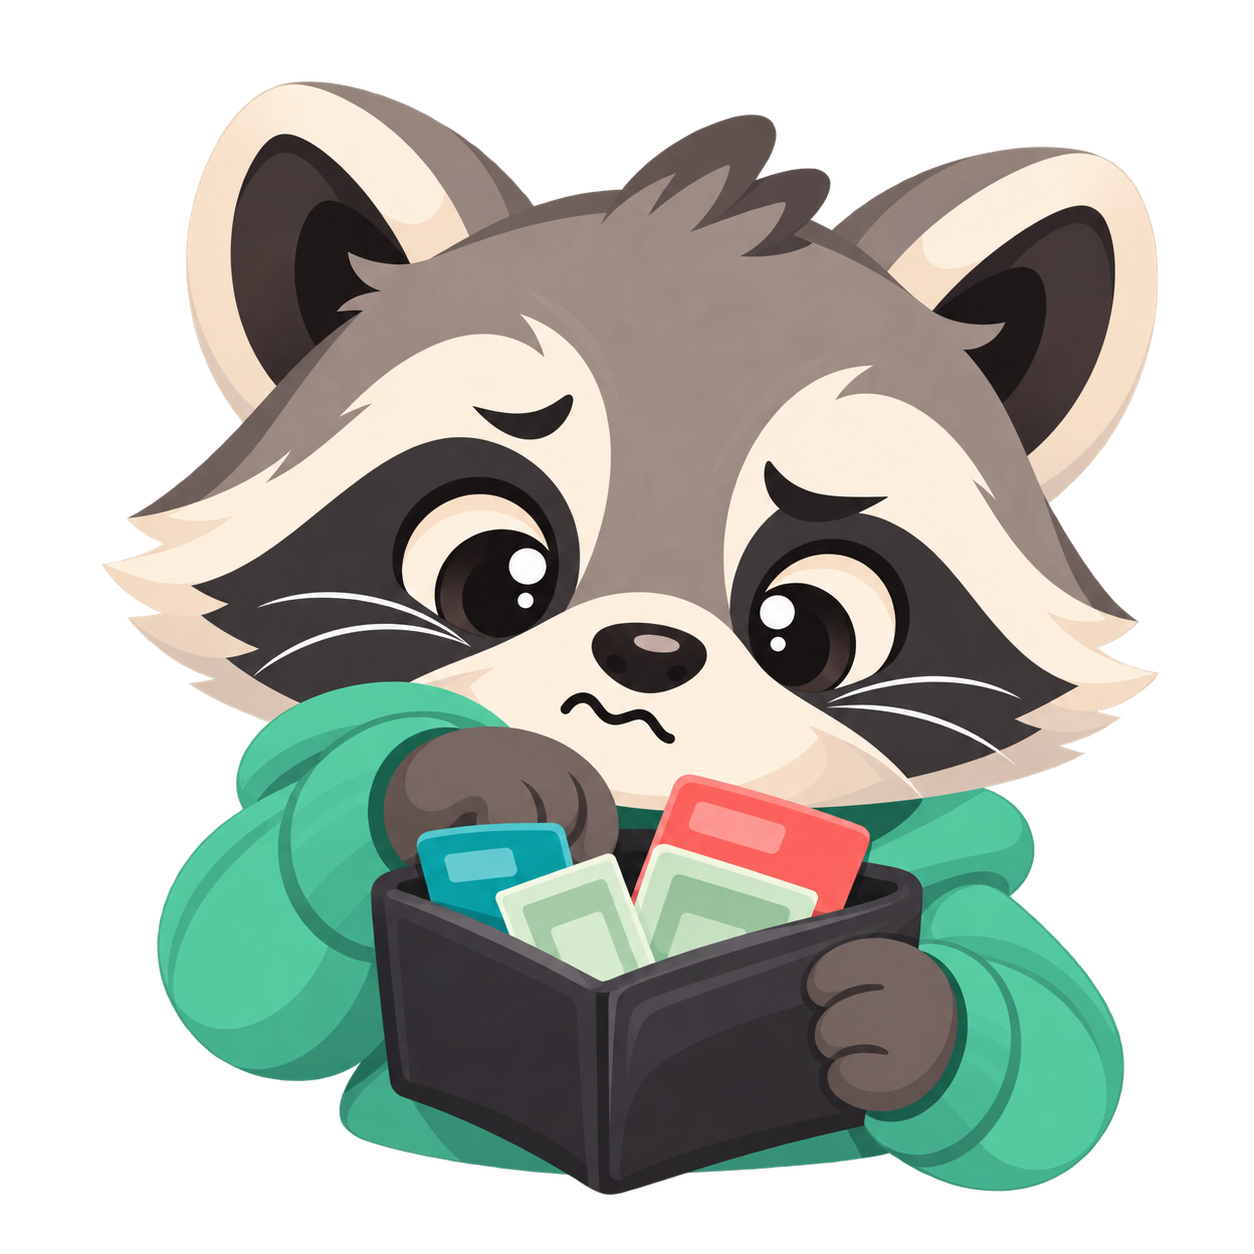
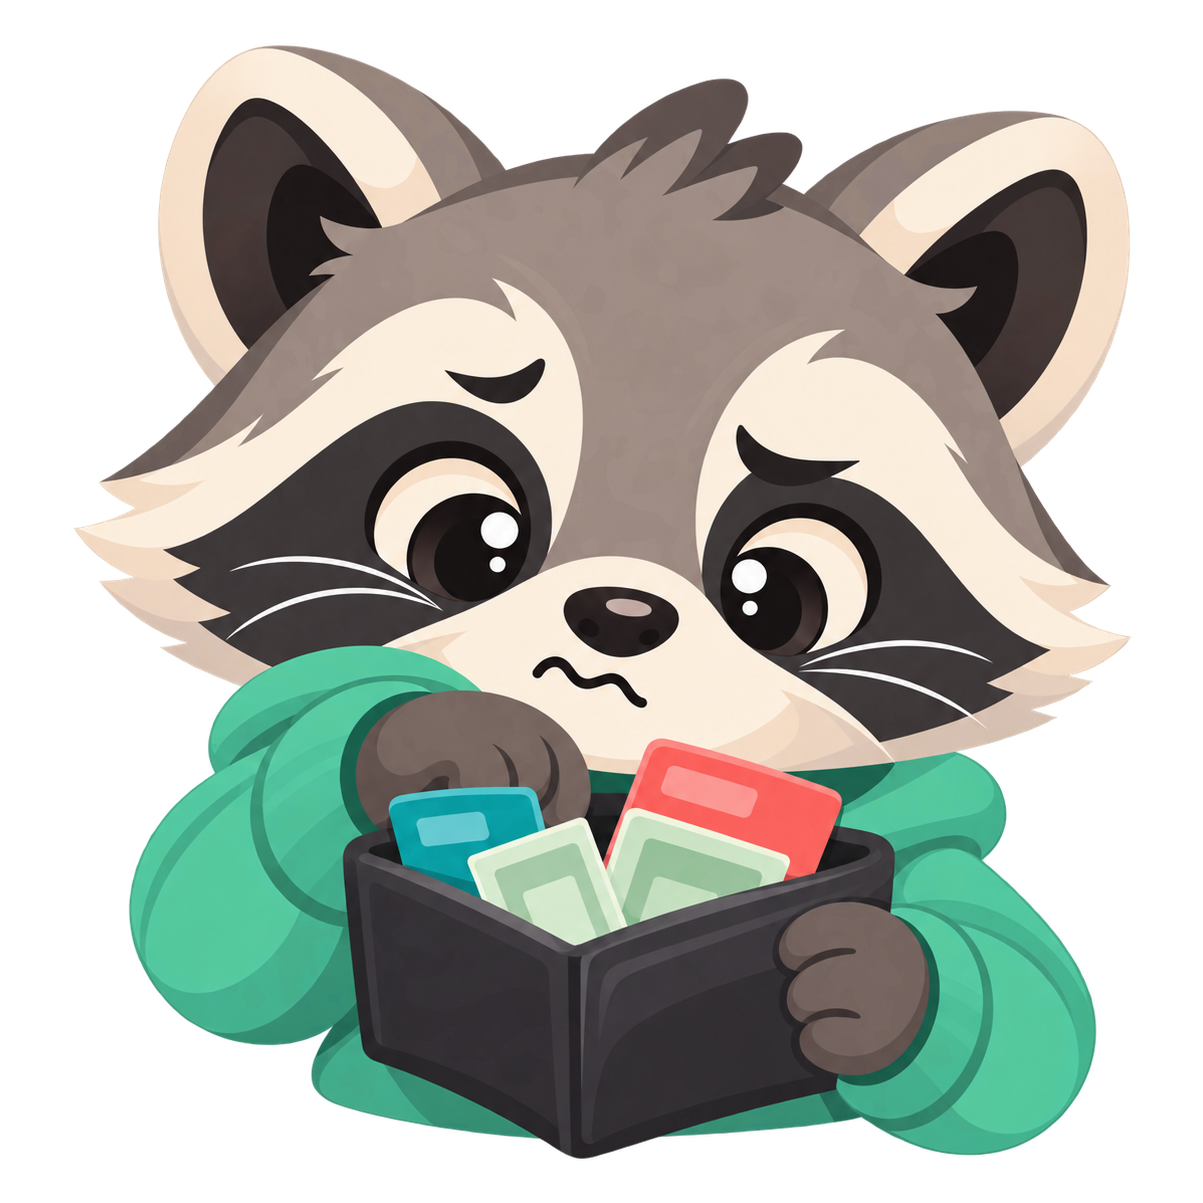
Bigger sidebar badge with a frame instead of a fill, more dashboard room
- Sidebar badge 48x48 -> 64x64, and swapped the solid accent-green
  background for a transparent background + thin green frame (Stroke),
  since the solid fill was blending into the raccoon's own green
  hoodie in the artwork.
- Dashboard's outer padding 32 -> 40 - it was feeling cramped.
- Cropped the app icon source PNG tighter around the character
  (was using only ~84-89% of the canvas) so it reads a bit larger at
  small taskbar sizes. Detail loss at 16-32px is partly inherent to a
  richly-illustrated character and isn't fully fixable by cropping
  alone - flagged to the user as a possible next step (a tighter,
  face-focused crop) if this isn't enough.

Parked: the Microsoft.NET.Sdk.Maui switch (for future iOS support) -
the workload manifest and SDK pack files are genuinely present and
correctly version-matched, but Microsoft.DotNet.MSBuildWorkloadSdkResolver
still won't resolve the SDK. Reverted to the working plain-Sdk setup
so it doesn't block other work; `dotnet workload repair` is the next
thing to try.

Changed region(s): [[0.0615, 0.0308, 0.9534, 0.9842]]

diff --git a/src/Banccoon.App/AppShell.xaml b/src/Banccoon.App/AppShell.xaml
@@ -13,9 +13,10 @@
 
     <Shell.FlyoutHeaderTemplate>
         <DataTemplate>
-            <HorizontalStackLayout Padding="16,12,16,12" Spacing="10">
-                <Border WidthRequest="48" HeightRequest="48" Padding="4" StrokeShape="RoundRectangle 14" Stroke="Transparent"
-                        Background="{AppThemeBinding Light={StaticResource LightAccent}, Dark={StaticResource DarkAccent}}">
+            <HorizontalStackLayout Padding="14,10,14,10" Spacing="10">
+                <Border WidthRequest="64" HeightRequest="64" Padding="2" StrokeShape="RoundRectangle 18"
+                        Stroke="{AppThemeBinding Light={StaticResource LightAccent}, Dark={StaticResource DarkAccent}}"
+                        StrokeThickness="2" Background="Transparent">
                     <Image Source="{Binding CurrentTabImageSource}" Aspect="AspectFit" />
                 </Border>
                 <Label Text="Banccoon" FontSize="16" FontAttributes="Bold" VerticalOptions="Center" />

diff --git a/src/Banccoon.App/Views/DashboardPage.xaml b/src/Banccoon.App/Views/DashboardPage.xaml
@@ -10,7 +10,7 @@
     BackgroundColor="{AppThemeBinding Light={StaticResource LightPageBackground}, Dark={StaticResource DarkPageBackground}}">
 
     <ScrollView>
-        <VerticalStackLayout Padding="32" Spacing="16">
+        <VerticalStackLayout Padding="40" Spacing="16">
 
             <VerticalStackLayout Spacing="2">
                 <Label Text="Dashboard" Style="{StaticResource ScreenTitleLabel}" />
